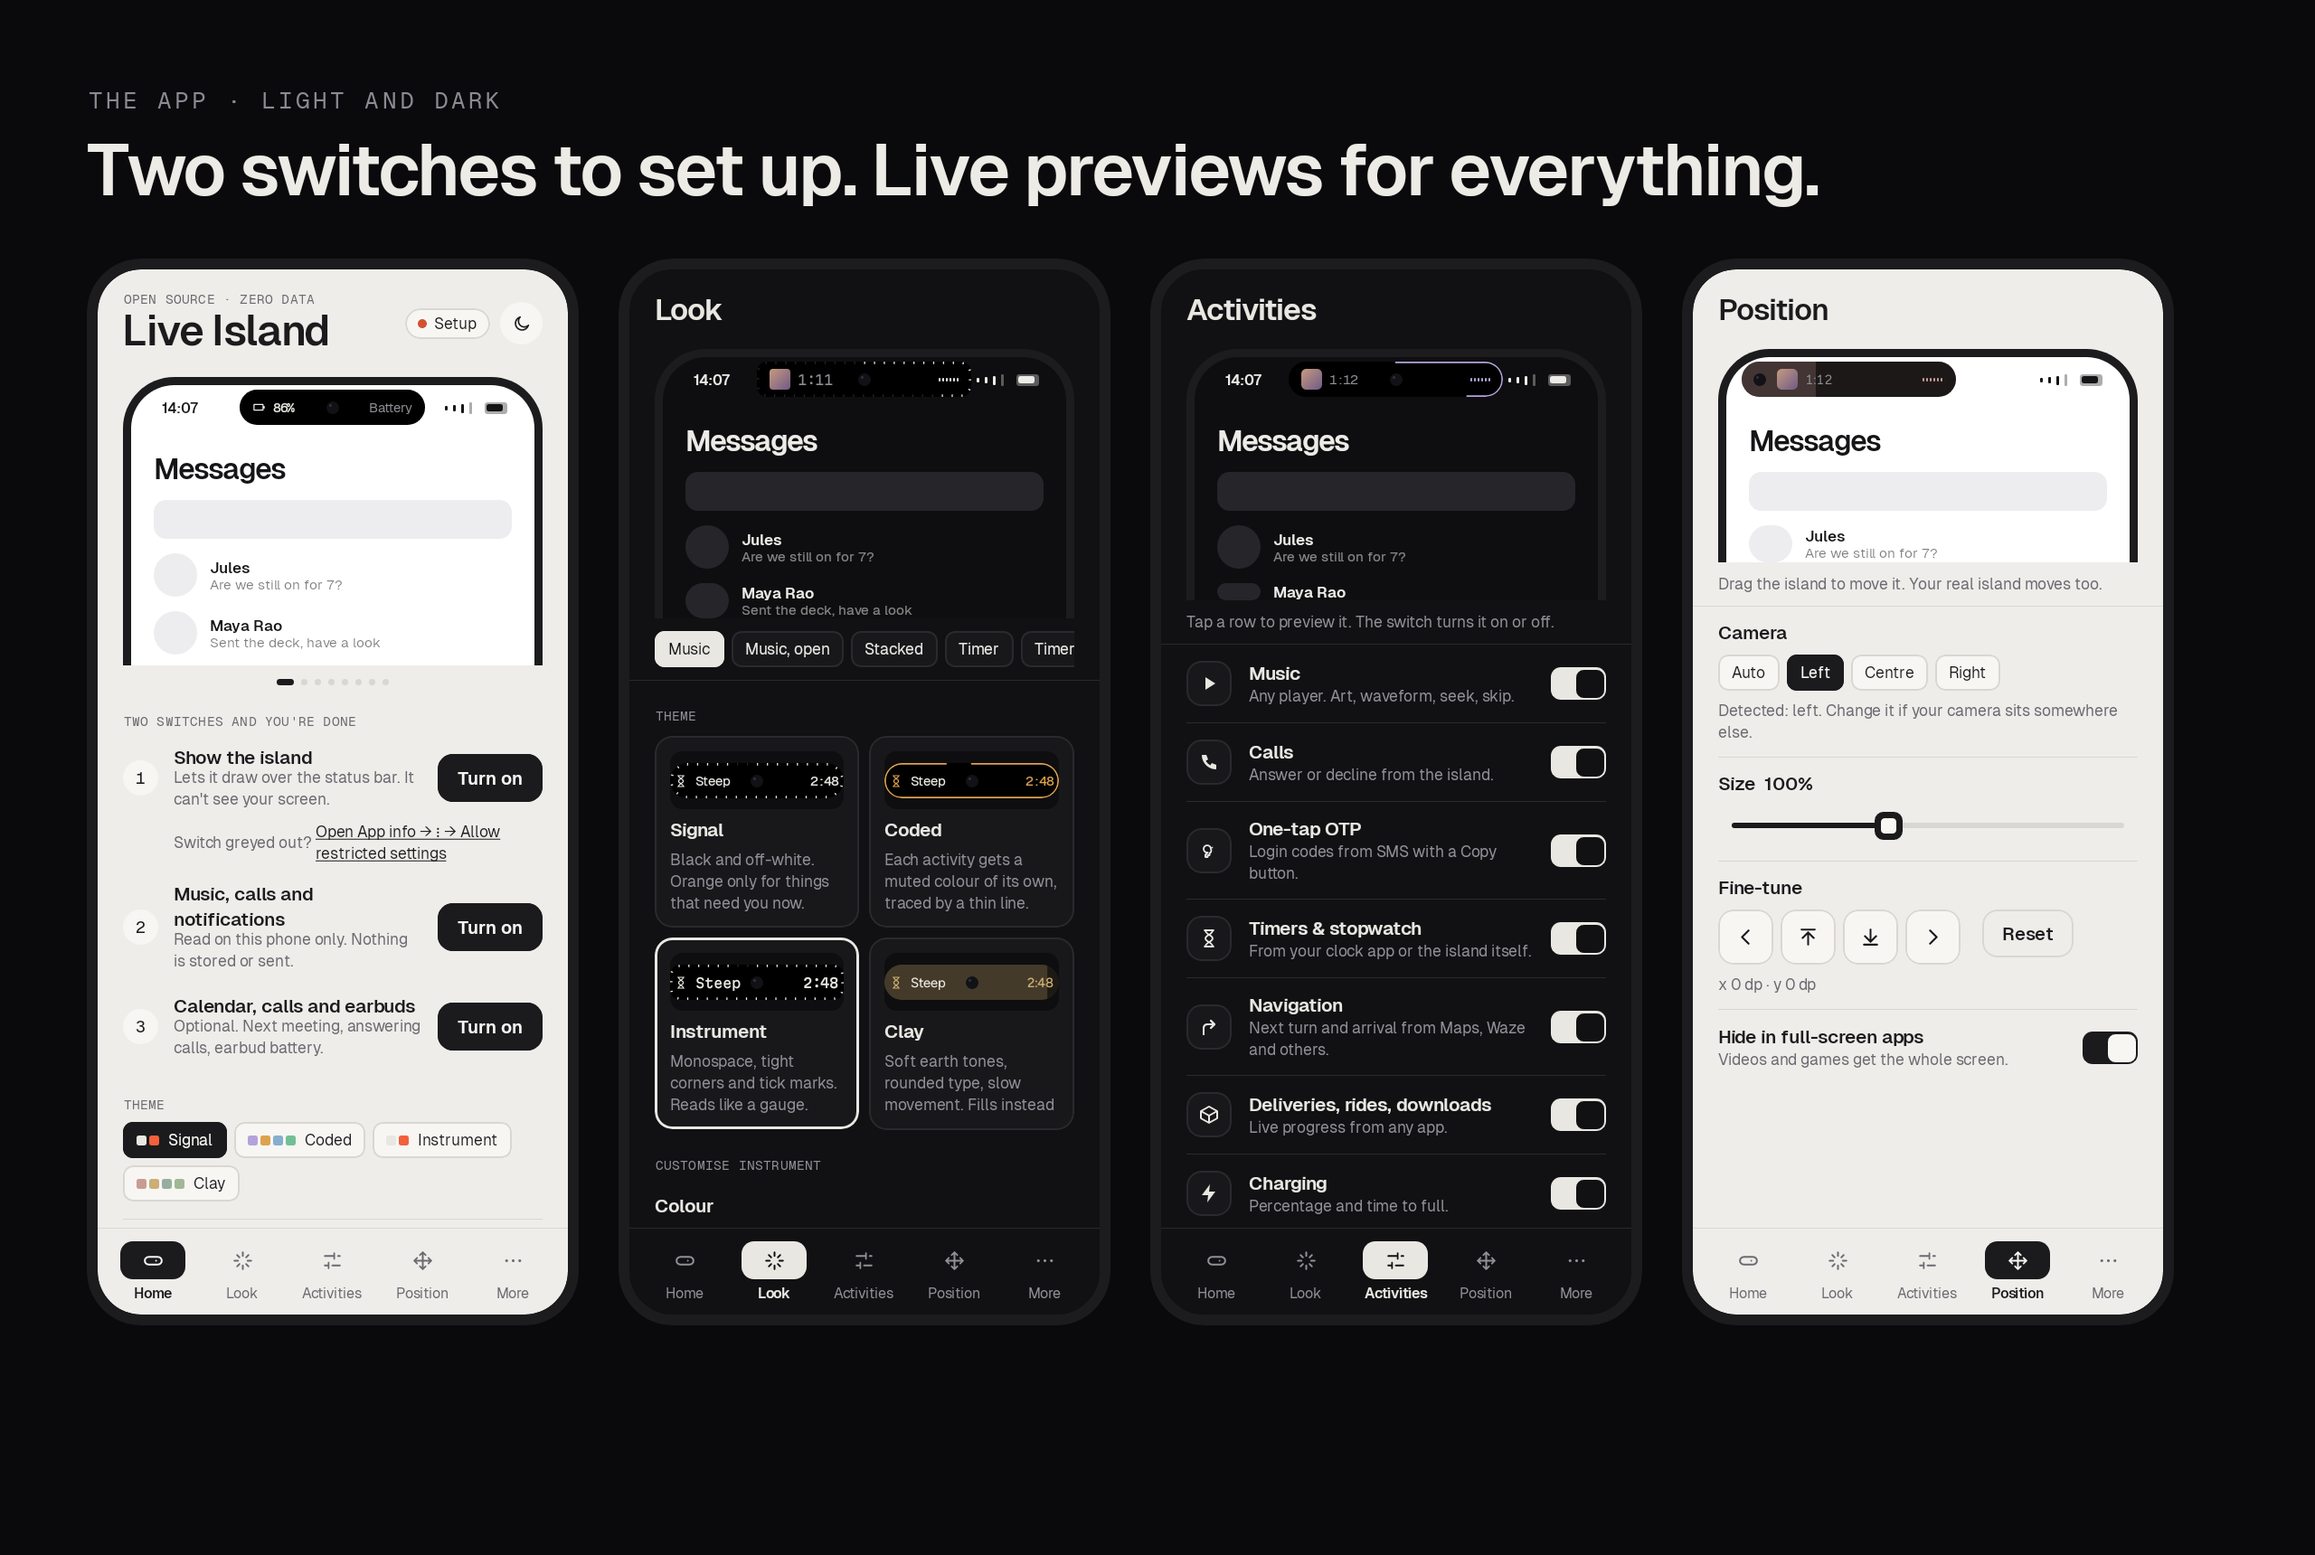
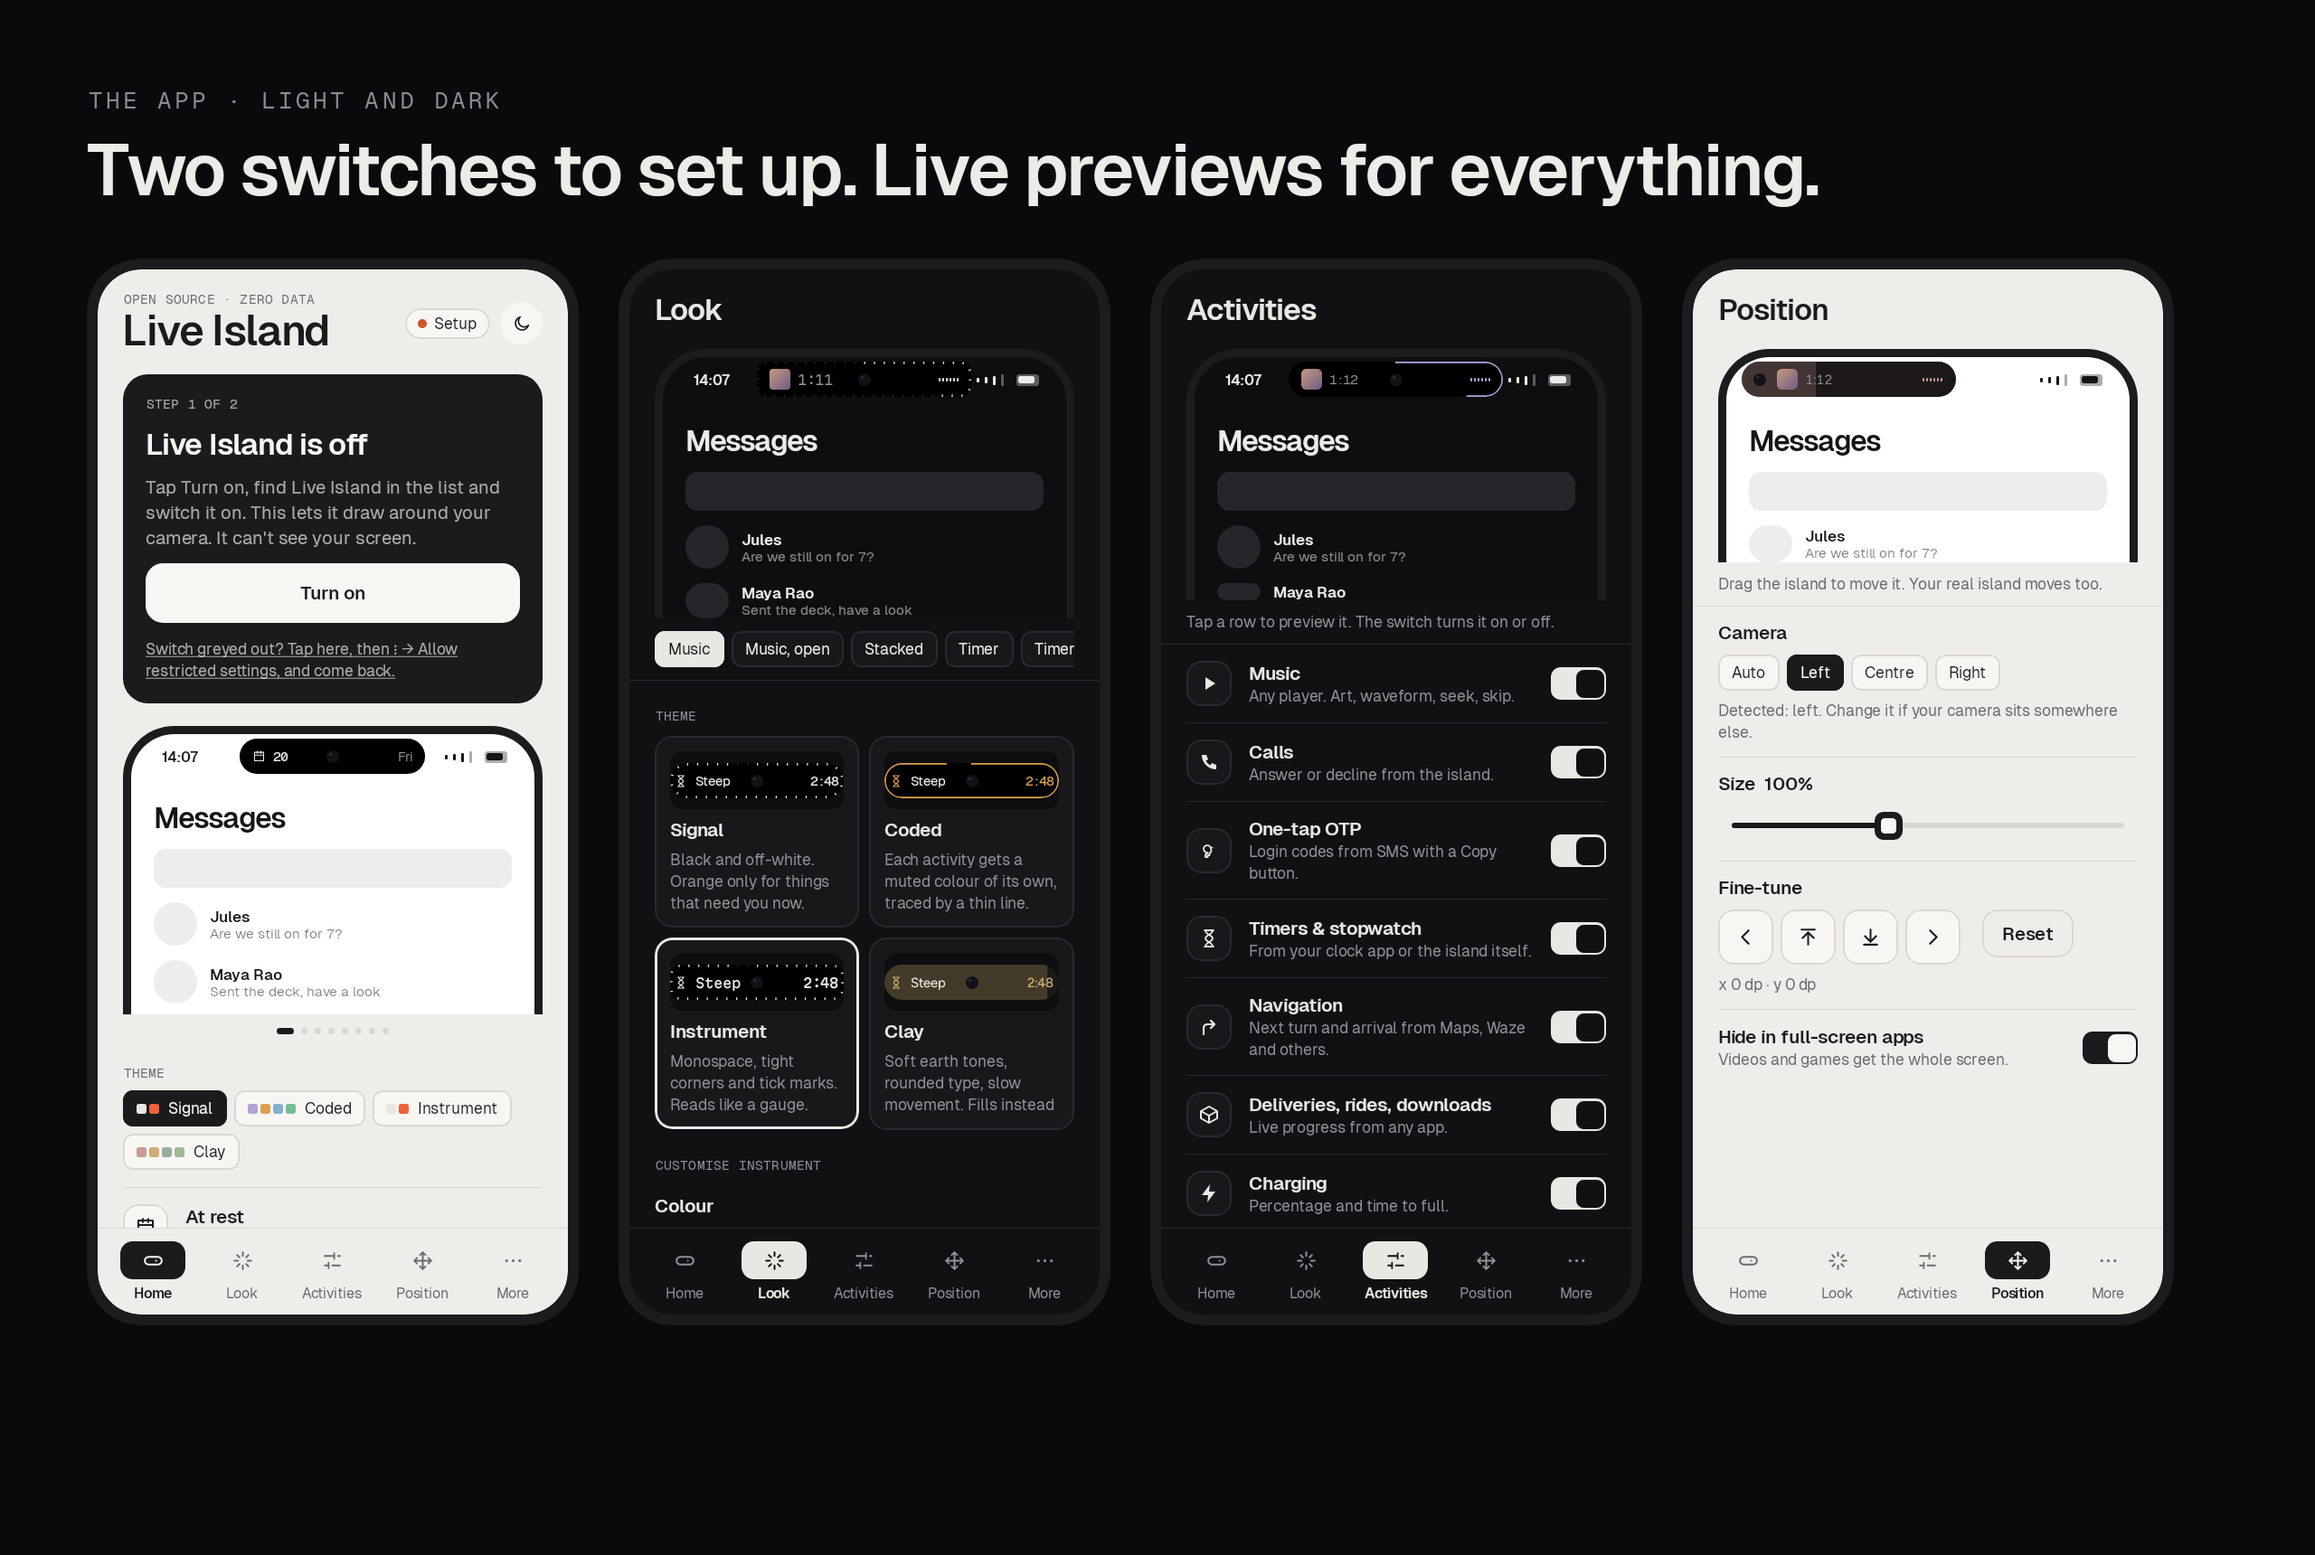
Make turning the island on obvious; add Quick Settings tile
- Power card at the top of Home: a single Turn on button walks through
  the two Android switches in order, then becomes a big on/off switch
- Quick Settings tile to switch the island on or off from the shade
- Refresh README artwork

Changed region(s): [[0.0312, 0.2465, 0.25, 0.7703]]

diff --git a/app/src/main/java/app/liveisland/ui/screens/Home.kt b/app/src/main/java/app/liveisland/ui/screens/Home.kt
@@ -4,6 +4,7 @@ import android.os.Build
 import androidx.activity.compose.rememberLauncherForActivityResult
 import androidx.activity.result.contract.ActivityResultContracts
 import androidx.compose.foundation.background
+import androidx.compose.foundation.border
 import androidx.compose.foundation.clickable
 import androidx.compose.foundation.interaction.MutableInteractionSource
 import androidx.compose.foundation.layout.Arrangement
@@ -96,6 +97,7 @@ fun HomeScreen(
                     ) { Icon(if (dark) Glyph.SPARK else Glyph.MOON, 16.dp) }
                 }
             }
+            item { PowerCard(s, access, update) }
             item {
                 Box(Modifier.padding(top = 18.dp)) {
                     PhoneTop(IslandStyle.of(s), showcase[i], s.placement, side, s.rest, s.features, height = 230.dp)
@@ -107,18 +109,9 @@ fun HomeScreen(
                 }
             }
 
-            if (!access.ready || !access.runtime) item {
-                Column(Modifier.padding(top = 20.dp)) {
-                    Label("Two switches and you're done")
-                    Spacer(Modifier.height(4.dp))
-                    Step(1, "Show the island", "Lets it draw over the status bar. It can't see your screen.", access.overlay) { Permissions.openOverlay(ctx) }
-                    if (!access.overlay && Build.VERSION.SDK_INT >= 33) Row(Modifier.padding(start = 40.dp, bottom = 6.dp), verticalAlignment = Alignment.CenterVertically) {
-                        Txt("Switch greyed out? ", P.t.small, c.muted)
-                        Txt("Open App info → ⋮ → Allow restricted settings", P.t.small.copy(textDecoration = androidx.compose.ui.text.style.TextDecoration.Underline), c.fg,
-                            modifier = Modifier.clickableNoRipple { Permissions.openAppInfo(ctx) })
-                    }
-                    Step(2, "Music, calls and notifications", "Read on this phone only. Nothing is stored or sent.", access.notifications) { Permissions.openNotifications(ctx) }
-                    Step(3, "Calendar, calls and earbuds", "Optional. Next meeting, answering calls, earbud battery.", access.runtime) { ask.launch(Permissions.runtime) }
+            if (access.ready && !access.runtime) item {
+                Column(Modifier.padding(top = 14.dp)) {
+                    Step(3, "Calendar, calls and earbuds", "Optional. Next meeting, answering calls, earbud battery.", false) { ask.launch(Permissions.runtime) }
                 }
             }
 
@@ -135,10 +128,6 @@ fun HomeScreen(
             }
             item {
                 Column(Modifier.padding(top = 14.dp)) {
-                    Rule()
-                    Entry("Island", if (s.enabled) "Always on screen" else "Hidden until you turn it back on", Glyph.DOT, onClick = { update { it.copy(enabled = !it.enabled) } }) {
-                        Switch(s.enabled, { on -> update { it.copy(enabled = on) } })
-                    }
                     Rule()
                     Entry("At rest", if (s.rest.mode == app.liveisland.core.RestMode.RING) "Ring around the camera" else s.rest.facts.joinToString(" · ") { it.label }, Glyph.CAL) { open(Sub.REST) }
                     Rule()
@@ -173,3 +162,70 @@ private fun countOn(s: Settings): Int = with(s.features) {
 
 fun Modifier.clickableNoRipple(onClick: () -> Unit): Modifier =
     this.clickable(interactionSource = MutableInteractionSource(), indication = null, onClick = onClick)
+
+
+/**
+ * The first thing on Home. Not set up: one button that walks through the two Android
+ * switches in order. Set up: a big on/off switch.
+ */
+@Composable
+private fun PowerCard(s: Settings, access: Access, update: ((Settings) -> Settings) -> Unit) {
+    val c = P.c
+    val ctx = LocalContext.current
+    val shape = androidx.compose.foundation.shape.RoundedCornerShape(20.dp)
+    val ready = access.ready
+    val on = ready && s.enabled
+    Column(
+        Modifier.fillMaxWidth().padding(top = 16.dp).clip(shape).background(if (on || !ready) c.fg else c.surface)
+            .then(if (!on && ready) Modifier.border(1.dp, c.line, shape) else Modifier)
+            .padding(18.dp),
+        verticalArrangement = Arrangement.spacedBy(12.dp),
+    ) {
+        val ink = if (on || !ready) c.inv else c.fg
+        val soft = if (on || !ready) c.inv.copy(alpha = 0.65f) else c.muted
+        if (!ready) {
+            val step = if (!access.overlay) 1 else 2
+            Label("Step $step of 2", color = soft)
+            Txt("Live Island is off", P.t.title, ink)
+            Txt(
+                if (step == 1) "Tap Turn on, find Live Island in the list and switch it on. This lets it draw around your camera. It can't see your screen."
+                else "One more: allow notification access so it can show music, calls, timers and codes. Nothing leaves your phone.",
+                P.t.body, soft,
+            )
+            Box(
+                Modifier.fillMaxWidth().clip(androidx.compose.foundation.shape.RoundedCornerShape(14.dp)).background(c.inv)
+                    .clickableNoRipple { if (step == 1) Permissions.openOverlay(ctx) else Permissions.openNotifications(ctx) }
+                    .padding(vertical = 15.dp),
+                contentAlignment = Alignment.Center,
+            ) { Txt(if (step == 1) "Turn on" else "Allow notifications", P.t.heading, c.fg) }
+            if (step == 1 && Build.VERSION.SDK_INT >= 33) Txt(
+                "Switch greyed out? Tap here, then ⋮ → Allow restricted settings, and come back.",
+                P.t.small.copy(textDecoration = androidx.compose.ui.text.style.TextDecoration.Underline), soft,
+                modifier = Modifier.clickableNoRipple { Permissions.openAppInfo(ctx) },
+            )
+        } else {
+            Row(verticalAlignment = Alignment.CenterVertically) {
+                Column(Modifier.weight(1f), verticalArrangement = Arrangement.spacedBy(4.dp)) {
+                    Txt(if (on) "Island is on" else "Island is off", P.t.title, ink)
+                    Txt(if (on) "Around your camera, on every app." else "Flip the switch to bring it back.", P.t.small, soft)
+                }
+                BigSwitch(on, onInk = on) { v -> update { it.copy(enabled = v) } }
+            }
+            Txt("Tip: add the Live Island tile to Quick Settings to switch it from anywhere.", P.t.small, soft)
+        }
+    }
+}
+
+@Composable
+private fun BigSwitch(on: Boolean, onInk: Boolean, onChange: (Boolean) -> Unit) {
+    val c = P.c
+    val x by androidx.compose.animation.core.animateDpAsState(if (on) 30.dp else 3.dp, label = "k")
+    val track = if (onInk) c.inv else c.line
+    val knob = if (onInk) c.fg else c.raised
+    Box(
+        Modifier.size(64.dp, 37.dp).clip(androidx.compose.foundation.shape.RoundedCornerShape(11.dp)).background(track)
+            .clickableNoRipple { onChange(!on) },
+    ) {
+        Box(Modifier.padding(start = x, top = 3.dp).size(31.dp).clip(androidx.compose.foundation.shape.RoundedCornerShape(9.dp)).background(knob))
+    }
+}

diff --git a/app/src/main/java/app/liveisland/service/IslandTileService.kt b/app/src/main/java/app/liveisland/service/IslandTileService.kt
@@ -1,0 +1,38 @@
+package app.liveisland.service
+
+import android.app.PendingIntent
+import android.content.Intent
+import android.os.Build
+import android.service.quicksettings.Tile
+import android.service.quicksettings.TileService
+import app.liveisland.core.SettingsStore
+import app.liveisland.ui.MainActivity
+import app.liveisland.ui.Permissions
+
+/** Quick Settings tile: turn the island on or off from the notification shade. */
+class IslandTileService : TileService() {
+    override fun onStartListening() = refresh()
+
+    override fun onClick() {
+        if (!Permissions.overlay(this)) {
+            // Not set up yet: open the app where the Turn on button is.
+            val i = Intent(this, MainActivity::class.java).addFlags(Intent.FLAG_ACTIVITY_NEW_TASK)
+            if (Build.VERSION.SDK_INT >= 34) startActivityAndCollapse(PendingIntent.getActivity(this, 0, i, PendingIntent.FLAG_IMMUTABLE))
+            else @Suppress("DEPRECATION") startActivityAndCollapse(i)
+            return
+        }
+        val store = SettingsStore.get(this)
+        val next = !store.settings.value.enabled
+        store.update { it.copy(enabled = next) }
+        render(next)
+    }
+
+    private fun refresh() = render(Permissions.overlay(this) && SettingsStore.get(this).settings.value.enabled)
+
+    private fun render(on: Boolean) {
+        val t = qsTile ?: return
+        t.state = if (on) Tile.STATE_ACTIVE else Tile.STATE_INACTIVE
+        if (Build.VERSION.SDK_INT >= 29) t.subtitle = if (!Permissions.overlay(this)) "Set up" else if (on) "On" else "Off"
+        t.updateTile()
+    }
+}
